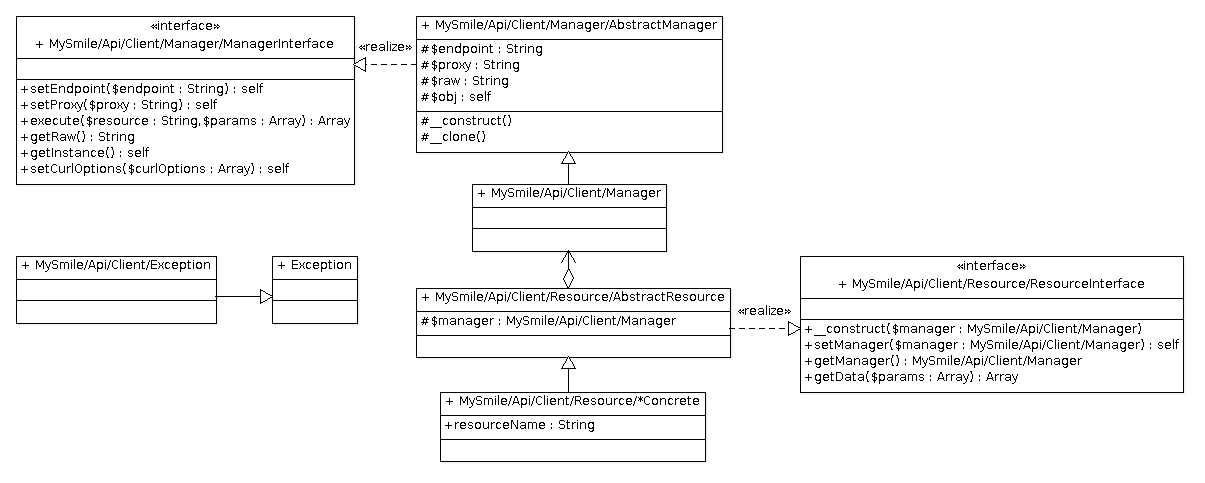
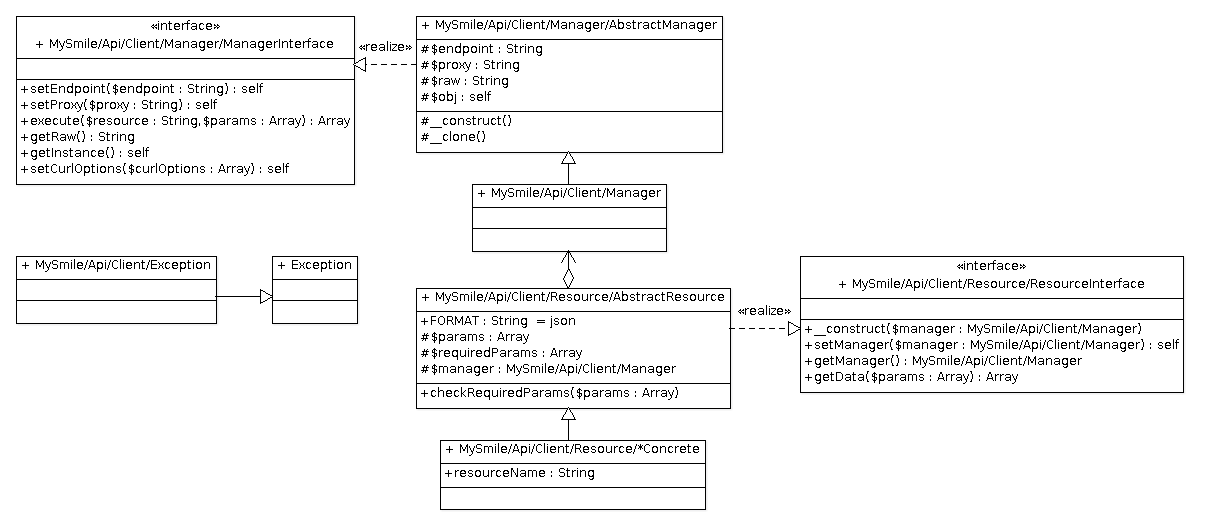
Added check on required params and set default param 'format'

diff --git a/src/MySmile/Api/Client/Resource/AbstractResource.php b/src/MySmile/Api/Client/Resource/AbstractResource.php
@@ -8,15 +8,16 @@
 
 namespace MySmile\Api\Client\Resource;
 use MySmile\Api\Client\Manager;
+use MySmile\Api\Client\Exception;
 
 abstract class AbstractResource  implements ResourceInterface 
-{
+{   
     /**
-     * Default language
+     * Format
      * 
-     * @var string 
+     * @var string
      */
-    static public $language = 'en';
+    const FORMAT = 'json';
     
     /**
      * Http Manager
@@ -24,6 +25,22 @@ abstract class AbstractResource  implements ResourceInterface
      * @var MySmile\Api\Client\Manager 
      */
     protected $manager;
+    
+    /**
+     * Default params
+     *  
+     * @var type 
+     */
+    protected $params = array(
+        'format' => self::FORMAT
+    );
+    
+    /**
+     * Required params
+     * 
+     * @var array 
+     */
+    protected $requiredParams = array();
     
     /**
      * @param MySmile\Api\Client\Manager $manager
@@ -64,8 +81,28 @@ abstract class AbstractResource  implements ResourceInterface
      */
     public function getData(array $params = array())
     {
-        $param['lang'] = (isset($param['lang']))? $param['lang']: self::$language;
+        $params = \array_merge($this->params, $params);
+        $this->checkRequiredParams($params);
         
         return $this->manager->execute($this->resourceName, $params);
+    }
+    
+    /**
+     * Check required params
+     * 
+     * @throws MySmile\Api\Client\Exception
+     */
+    protected function checkRequiredParams(array $params) 
+    {        
+        $invalid = array();
+        foreach ($this->requiredParams as $item) {
+            if (empty($params[$item])) {
+                $invalid[] = $item;
+            }
+        }
+        
+        if (!empty($invalid)) {
+            throw new Exception('Error: required parameters not set or empty "'.\implode(', ', $invalid).'". Please set parameters and try again.');
+        }
     }
 }

diff --git a/src/MySmile/Api/Client/Resource/Content.php b/src/MySmile/Api/Client/Resource/Content.php
@@ -10,5 +10,17 @@ namespace MySmile\Api\Client\Resource;
 
 class Content extends AbstractResource 
 {
+    /**
+     * Resource name
+     * 
+     * @var string 
+     */
     protected $resourceName = 'content';
+    
+    /**
+     * Required params
+     * 
+     * @var array 
+     */
+    protected $requiredParams = array('lang');
 }

diff --git a/tests/src/MySmile/Api/Client/Resource/ContentTest.php b/tests/src/MySmile/Api/Client/Resource/ContentTest.php
@@ -41,7 +41,6 @@ class ContentTest extends BaseTest
     public function providerGetDataValid()
     {
         return array(
-            array(array()),
             array(array('lang' => 'uk')),
             array(array('lang' => 'uk', 'slug' => 'index'))
         );

diff --git a/src/MySmile/Api/Client/Resource/Language.php b/src/MySmile/Api/Client/Resource/Language.php
@@ -10,5 +10,10 @@ namespace MySmile\Api\Client\Resource;
 
 class Language extends AbstractResource 
 {
+    /**
+     * Resource name
+     * 
+     * @var string 
+     */
     protected $resourceName = 'language';
 }

diff --git a/src/MySmile/Api/Client/Resource/Contact.php b/src/MySmile/Api/Client/Resource/Contact.php
@@ -10,5 +10,10 @@ namespace MySmile\Api\Client\Resource;
 
 class Contact extends AbstractResource 
 {
+    /**
+     * Resource name
+     * 
+     * @var string 
+     */
     protected $resourceName = 'contact';
 }

diff --git a/CHANGELOG.md b/CHANGELOG.md
@@ -1,5 +1,10 @@
 CHANGELOG
 =========
+v1.1.0 (2014-04-03)
+-------------------
+* Added check to required data
+* Set default value for format parameter 
+
 v1.0.0 (2014-04-01)
 -------------------
 * First version with unitTests and examples
